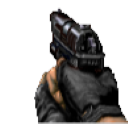
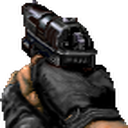
added a gun

diff --git a/src/drawing/draw_overlay.c b/src/drawing/draw_overlay.c
@@ -6,7 +6,7 @@
 /*   By: dolifero <dolifero@student.42.fr>          +#+  +:+       +#+        */
 /*                                                +#+#+#+#+#+   +#+           */
 /*   Created: 2024/08/17 17:15:58 by dolifero          #+#    #+#             */
-/*   Updated: 2024/08/19 03:11:05 by dolifero         ###   ########.fr       */
+/*   Updated: 2024/08/19 07:12:56 by dolifero         ###   ########.fr       */
 /*                                                                            */
 /* ************************************************************************** */
 
@@ -30,33 +30,54 @@ void	draw_overlay_part(mlx_image_t *img, mlx_texture_t *texture, int dst_x, int 
 	}
 }
 
-// void	shoot_hook(void *param)
-// {
-// 	t_data	*data;
-// 	mlx_texture_t	*shoot;
-// 	mlx_texture_t	*recoil;
-// 	mlx_texture_t	*hand;
-// 	mlx_image_t		*hand_img;
+void	ft_shoot_hook(struct mlx_key_data key, void *param)
+{
+	t_data	*data;
 
-// 	data = (t_data *)param;
-// 	shoot = mlx_load_png("./assets/pistol_shoot.png");
-// 	hand_img = mlx_texture_to_image(data->cubed->mlx, hand);
-// 	mlx_image_to_window(data->cubed->mlx, hand_img, (WIDTH - hand_img->width) - 200, HEIGHT - hand_img->height);
-// }
+	data = (t_data *)param;
+	if (key.key == MLX_KEY_SPACE && key.action == MLX_REPEAT)
+	{
+		mlx_delete_image(data->cubed->mlx, data->cubed->hand);
+		data->cubed->hand = mlx_texture_to_image(data->cubed->mlx,
+				data->texture->recoil);
+		mlx_resize_image(data->cubed->hand, 300, 300);
+		mlx_image_to_window(data->cubed->mlx, data->cubed->hand,
+			(WIDTH - data->cubed->hand->width) - 200,
+			HEIGHT - data->cubed->hand->height);
+	}
+	if (key.key == MLX_KEY_SPACE && key.action == MLX_PRESS)
+	{
+		mlx_delete_image(data->cubed->mlx, data->cubed->hand);
+		data->cubed->hand = mlx_texture_to_image(data->cubed->mlx,
+				data->texture->shoot);
+		mlx_resize_image(data->cubed->hand, 300, 300);
+		mlx_image_to_window(data->cubed->mlx, data->cubed->hand,
+			(WIDTH - data->cubed->hand->width) - 200,
+			HEIGHT - data->cubed->hand->height);
+	}
+	if (key.key == MLX_KEY_SPACE && key.action == MLX_RELEASE)
+	{
+		mlx_delete_image(data->cubed->mlx, data->cubed->hand);
+		data->cubed->hand = mlx_texture_to_image(data->cubed->mlx,
+				data->texture->hand);
+		mlx_resize_image(data->cubed->hand, 300, 300);
+		mlx_image_to_window(data->cubed->mlx, data->cubed->hand,
+			(WIDTH - data->cubed->hand->width) - 200,
+			HEIGHT - data->cubed->hand->height);
+	}
+}
 
 void	draw_overlay(t_data *data)
 {
 	mlx_texture_t	*crosshair;
-	mlx_texture_t	*hand;
-	mlx_image_t		*hand_img;
 
 	crosshair = mlx_load_png("./assets/crosshair_1.PNG");
 	draw_overlay_part(data->cubed->overlay, crosshair,
 		(WIDTH - crosshair->width) / 2, HEIGHT / 2);
-	hand = mlx_load_png("./assets/pistol_static.png");
-	hand_img = mlx_texture_to_image(data->cubed->mlx, hand);
-	mlx_resize_image(hand_img, 300, 300);
-	mlx_image_to_window(data->cubed->mlx, hand_img,
-		(WIDTH - hand_img->width) - 200, HEIGHT - hand_img->height);
-	// mlx_loop_hook(data->cubed->mlx, shoot_hook, data);
+	data->cubed->hand = mlx_texture_to_image(data->cubed->mlx,
+			data->texture->hand);
+	mlx_resize_image(data->cubed->hand, 300, 300);
+	mlx_image_to_window(data->cubed->mlx, data->cubed->hand,
+		(WIDTH - data->cubed->hand->height) - 200,
+		HEIGHT - data->cubed->hand->height);
 }

diff --git a/include/structs.h b/include/structs.h
@@ -3,10 +3,10 @@
 /*                                                        :::      ::::::::   */
 /*   structs.h                                          :+:      :+:    :+:   */
 /*                                                    +:+ +:+         +:+     */
-/*   By: tomecker <tomecker@student.42.fr>          +#+  +:+       +#+        */
+/*   By: dolifero <dolifero@student.42.fr>          +#+  +:+       +#+        */
 /*                                                +#+#+#+#+#+   +#+           */
 /*   Created: 2024/08/10 22:21:53 by dolifero          #+#    #+#             */
-/*   Updated: 2024/08/17 17:28:58 by tomecker         ###   ########.fr       */
+/*   Updated: 2024/08/19 06:06:50 by dolifero         ###   ########.fr       */
 /*                                                                            */
 /* ************************************************************************** */
 
@@ -53,6 +53,7 @@ typedef struct s_cubed
 	mlx_image_t	*bg;
 	mlx_image_t	*walls;
 	mlx_image_t	*overlay;
+	mlx_image_t	*hand;
 	char		*title;
 }				t_cubed;
 
@@ -68,10 +69,13 @@ typedef struct s_color
 
 typedef struct s_texture
 {
-	mlx_texture_t *n;
-	mlx_texture_t *s;
-	mlx_texture_t *w;
-	mlx_texture_t *e;
+	mlx_texture_t	*n;
+	mlx_texture_t	*s;
+	mlx_texture_t	*w;
+	mlx_texture_t	*e;
+	mlx_texture_t	*shoot;
+	mlx_texture_t	*recoil;
+	mlx_texture_t	*hand;
 	double step;
 	double tex_pos;
 	int texY;

diff --git a/src/controls/controls.c b/src/controls/controls.c
@@ -6,7 +6,7 @@
 /*   By: dolifero <dolifero@student.42.fr>          +#+  +:+       +#+        */
 /*                                                +#+#+#+#+#+   +#+           */
 /*   Created: 2024/08/16 01:02:11 by dolifero          #+#    #+#             */
-/*   Updated: 2024/08/19 00:54:34 by dolifero         ###   ########.fr       */
+/*   Updated: 2024/08/19 07:03:56 by dolifero         ###   ########.fr       */
 /*                                                                            */
 /* ************************************************************************** */
 
@@ -53,7 +53,6 @@ void	ft_movement_hook(void *param)
 		newY -= data->planeY / 20;
 		collision(data, newX, newY);
 	}
-
 }
 
 void	ft_camera_hook(void *param)
@@ -79,18 +78,19 @@ void	ft_camera_hook(void *param)
 	}
 }
 
-void	ft_window_hook(void *param)
+void	ft_window_hook(struct mlx_key_data key, void *param)
 {
 	t_data	*data;
 
 	data = param;
-	if (mlx_is_key_down(data->cubed->mlx, MLX_KEY_ESCAPE))
+	if (key.key == MLX_KEY_ESCAPE && key.action == MLX_PRESS)
 		mlx_close_window(data->cubed->mlx);
+	ft_shoot_hook(key, param);
 }
 
 void	ft_hook(t_data *data)
 {
 	mlx_loop_hook(data->cubed->mlx, ft_camera_hook, data);
-	mlx_loop_hook(data->cubed->mlx, ft_window_hook, data);
 	mlx_loop_hook(data->cubed->mlx, ft_movement_hook, data);
+	mlx_key_hook(data->cubed->mlx, ft_window_hook, data);
 }

diff --git a/include/functions.h b/include/functions.h
@@ -6,7 +6,7 @@
 /*   By: dolifero <dolifero@student.42.fr>          +#+  +:+       +#+        */
 /*                                                +#+#+#+#+#+   +#+           */
 /*   Created: 2024/08/10 22:21:57 by dolifero          #+#    #+#             */
-/*   Updated: 2024/08/19 01:15:30 by dolifero         ###   ########.fr       */
+/*   Updated: 2024/08/19 06:58:32 by dolifero         ###   ########.fr       */
 /*                                                                            */
 /* ************************************************************************** */
 
@@ -45,8 +45,10 @@ int				get_texture_color(mlx_texture_t *texture, int x, int y);
 void			redraw(void *param);
 
 //CONTROLS
-void			ft_window_hook(void *param);
-void			movement_hook(t_data *data, mlx_t *mlx);
+void			ft_window_hook(struct mlx_key_data key, void *param);
+void			ft_movement_hook(void *param);
+void			ft_camera_hook(void *param);
+void			ft_shoot_hook(struct mlx_key_data key, void *param);
 void			ft_hook(t_data *data);
 void			collision(t_data *data, double newX, double newY);
 

diff --git a/src/parsing/init_structs.c b/src/parsing/init_structs.c
@@ -6,7 +6,7 @@
 /*   By: dolifero <dolifero@student.42.fr>          +#+  +:+       +#+        */
 /*                                                +#+#+#+#+#+   +#+           */
 /*   Created: 2024/08/17 01:03:04 by dolifero          #+#    #+#             */
-/*   Updated: 2024/08/18 01:20:03 by dolifero         ###   ########.fr       */
+/*   Updated: 2024/08/19 06:22:48 by dolifero         ###   ########.fr       */
 /*                                                                            */
 /* ************************************************************************** */
 
@@ -60,6 +60,9 @@ t_texture *init_texture(t_input *input)
 	texture->s = mlx_load_png(input->wall_s);
 	texture->w = mlx_load_png(input->wall_w);
 	texture->e = mlx_load_png(input->wall_e);
+	texture->shoot = mlx_load_png("./assets/pistol_shoot.png");
+	texture->recoil = mlx_load_png("./assets/pistol_recoil.png");
+	texture->hand = mlx_load_png("./assets/pistol_static.png");
 	if (!texture->n || !texture->s || !texture->w || !texture->e)
 		return (NULL);
 	return (texture);
